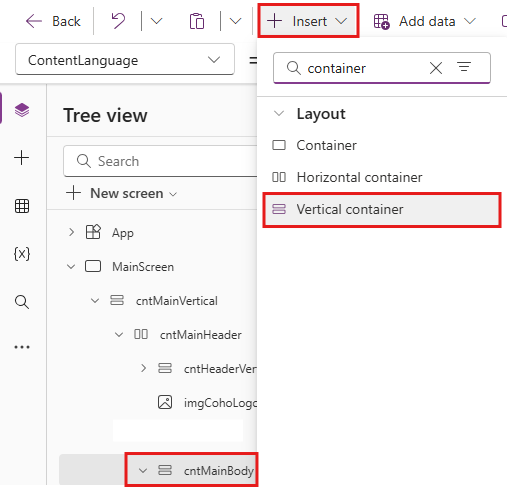
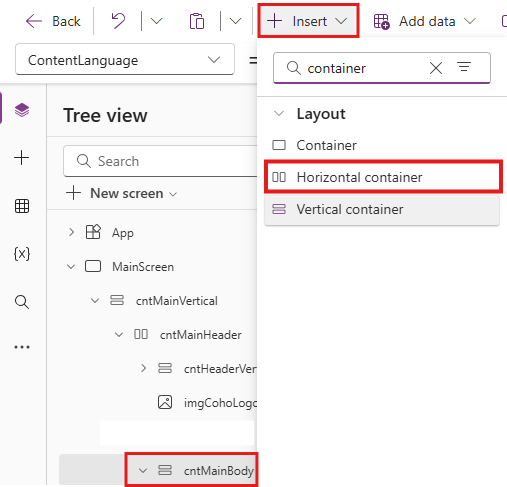
Added E3 images

Changed region(s): [[0.503, 0.308, 1.0, 0.4928]]

diff --git a/Lab2-CreateCustomPages.md b/Lab2-CreateCustomPages.md
@@ -272,8 +272,9 @@ ColorValue(nfBackgroundColor)
 
 For this exercise, we will start by adding a collection of data which will be used later to show *dummy data* in the galleries before building the actual layout. This collection will surface some "test" data for now, which will be replaced with real data from the ERP system in a later exercise.
 
-1. You should still be in the **Coho Winery Landing Page** from [✍ Exercise 2](https://github.com/JJGriffin/Designing-Beautiful-Power-Apps-For-Makers/blob/5f8012895efa8ef1a129a35a45e09a8efd8ae1f3/Lab2-CreateCustomPages.md#L102); if not, navigate back to it.
-2. In the **Tree view**, select **App** and then **Formulas** from the App properties dropdown.
+You should still be in the **Coho Winery Landing Page** from [✍ Exercise 2](https://github.com/JJGriffin/Designing-Beautiful-Power-Apps-For-Makers/blob/5f8012895efa8ef1a129a35a45e09a8efd8ae1f3/Lab2-CreateCustomPages.md#L102); if not, navigate back to it.
+
+1. In the **Tree view**, select **App** and then **Formulas** from the App properties dropdown.
 
 2. In the **Formulas**, create a *Named Formula* for the collection **nfcolPurchaseOrders** by setting the formula from [this resource](/Assets/Lab2/PurchaseOrderCollection.md). **Do not overwrite the existing formulas**.
 
@@ -281,6 +282,7 @@ For this exercise, we will start by adding a collection of data which will be us
 
 3. With **cntMainBody** selected in the **Tree View**, insert a **Horizontal container**. Rename it to **cntBodyGalleries**
 
+![\JJGriffin\Designing-Beautiful-Power-Apps-For-Makers\Images\Lab2-CreateCustomPages\E3_11.png](Images/Lab2-CreateCustomPages/E3_11.png)
 
 4. Adjust the following properties on the **cntBodyGalleries** control to resemble the below. The changes will ensure that the container behaves like a responsive 2-column row.
 
@@ -294,7 +296,10 @@ For this exercise, we will start by adding a collection of data which will be us
     | **PaddingRight** | `8` |
     | **PaddingTop** | `4` |
 
-5. Insert two *Vertical containers* inside **cntBodyGalleries** and rename them to **cntPurchaseOrders** and **cntMyPurchaseOrders** respectively. Your **Tree view** should now resemble the below:
+5. Insert two *Vertical containers* inside **cntBodyGalleries** and rename them to **cntPurchaseOrders** and **cntMyPurchaseOrders** respectively. 
+    - **Insert** → **Layout** → **Vertical container**
+
+Your **Tree view** should now resemble the below:
 
 ![Images/Lab2-CreateCustomPages/E3_1.png](Images/Lab2-CreateCustomPages/E3_1.png)
 
@@ -312,6 +317,8 @@ For this exercise, we will start by adding a collection of data which will be us
     | **PaddingTop** | `8` |
 
 7. In **Tree view**, select **cntPurchaseOrders**. Go to **Insert** → **Layout** → **Horizontal container** and rename it **cntPOHeader**.
+
+
 8. With **cntPOHeader** selected, adjust the following properties:
 
     | Property | Formula |
